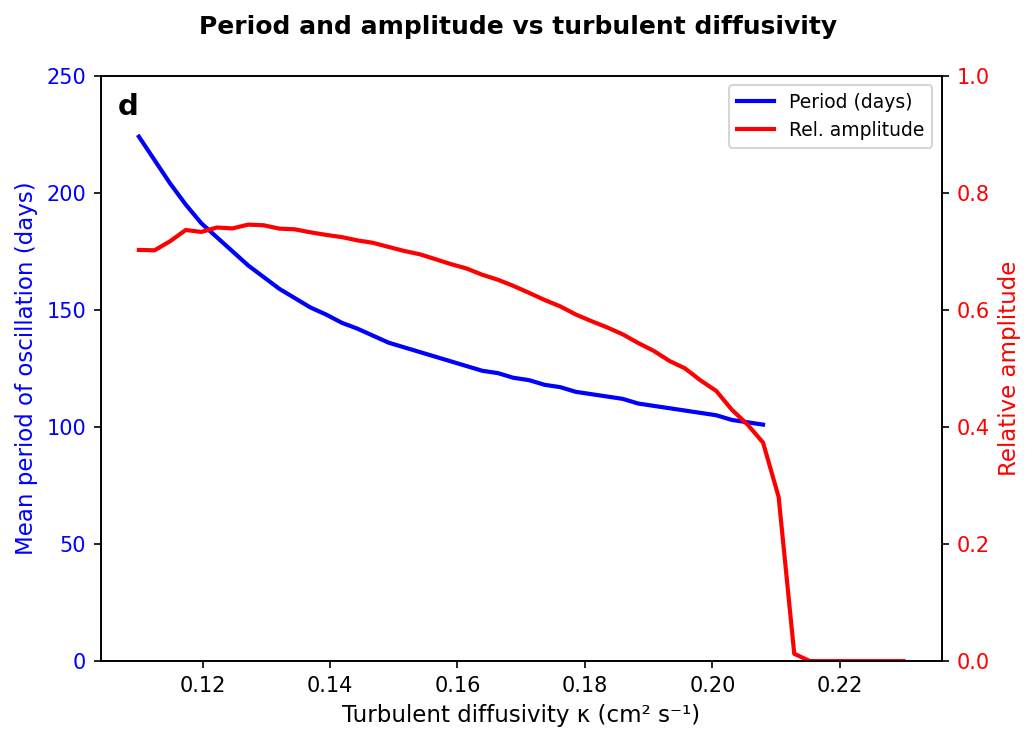
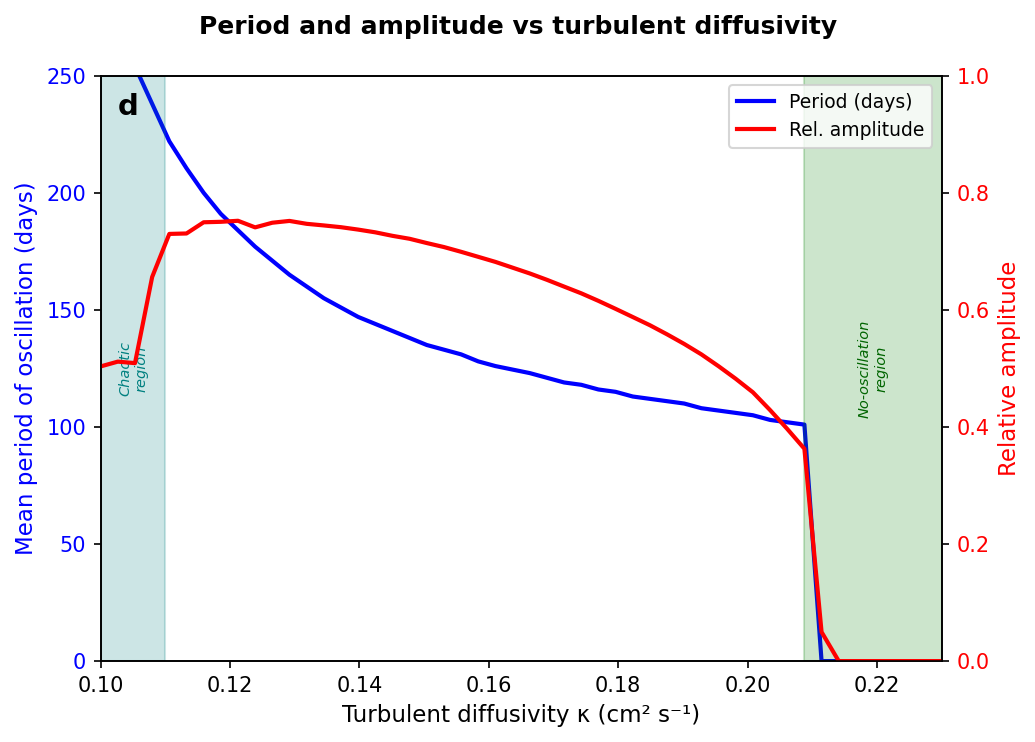
FIxed panels c and d, correct limits

diff --git a/scripts/bifurcation_patterns.py b/scripts/bifurcation_patterns.py
@@ -9,9 +9,9 @@ Speed strategy (two phased integration per parameter value):
 import sys, os, traceback, time, warnings
 
 # Prevent BLAS/LAPACK from spawning threads
-os.environ.setdefault('OMP_NUM_THREADS',      '1')
+os.environ.setdefault('OMP_NUM_THREADS', '1')
 os.environ.setdefault('OPENBLAS_NUM_THREADS', '1')
-os.environ.setdefault('MKL_NUM_THREADS',      '1')
+os.environ.setdefault('MKL_NUM_THREADS', '1')
 
 sys.path.insert(0, os.path.dirname(__file__))
 
@@ -174,24 +174,24 @@ def _continuation_sweep_both_directions(param_name, param_values, extra_params, 
 def _local_extrema(signal):
     order = 100
     idx_max = argrelextrema(signal, np.greater, order=order)[0]
-    idx_min = argrelextrema(signal, np.less,    order=order)[0]
+    idx_min = argrelextrema(signal, np.less, order=order)[0]
     return signal[idx_max], signal[idx_min]
-
-def _mean_period(signal, t):
-    order = 100
-    idx = argrelextrema(signal, np.greater, order=order)[0]
-    if len(idx) < 2:
-        return np.nan
-    amp = _rel_amplitude(signal)
-    if amp < 0.05:   # stable regime
-        return np.nan
-    return np.median(np.diff(t[idx]))
 
 def _rel_amplitude(signal):
     maxs, mins = _local_extrema(signal)
     if len(maxs) == 0 or len(mins) == 0:
         return 0.0
-    return (np.mean(maxs) - np.mean(mins)) / np.mean(maxs)
+    return (np.median(maxs) - np.median(mins)) / np.median(maxs)
+
+def _mean_period(signal, t):
+    order = 100
+    idx = argrelextrema(signal, np.greater, order=order)[0]
+    if len(idx) < 2:
+        return 0.0
+    amp = _rel_amplitude(signal)
+    if amp < 0.05:
+        return 0.0
+    return np.median(np.diff(t[idx]))
 
 def _extrema_from_sweep(raw):
     bif = []
@@ -208,7 +208,6 @@ def _period_amp_from_sweep(raw):
         periods.append(_mean_period(Pint, t))
         amps.append(_rel_amplitude(Pint))
     return np.array(periods), np.array(amps)
-
 
 # Panel savers
 def save_panel_a(bif_data, kappas, out_path):
@@ -246,8 +245,8 @@ def save_panel_c(v_values, periods, amplitudes, out_path):
     fig.suptitle('Period and amplitude vs sinking velocity', fontsize=12, fontweight='bold')
     ax2 = ax.twinx()
     valid = ~np.isnan(periods)
-    ax.plot(v_values[valid], periods[valid], 'b-', lw=2, label='Period (days)')
-    ax2.plot(v_values, amplitudes, 'r-', lw=2, label='Rel. amplitude')
+    ax.plot(v_values[valid], periods[valid], 'b-', lw=2, zorder=0, label='Period (days)')
+    ax2.plot(v_values, amplitudes, 'r-', lw=2, zorder=0, label='Rel. amplitude')
     ax.set_xlabel('Sinking velocity v (m h⁻¹)', fontsize=11)
     ax.set_ylabel('Mean period of oscillation (days)', color='b', fontsize=11)
     ax2.set_ylabel('Relative amplitude', color='r', fontsize=11)
@@ -256,8 +255,16 @@ def save_panel_c(v_values, periods, amplitudes, out_path):
     ax.tick_params(axis='y', labelcolor='b')
     ax2.tick_params(axis='y', labelcolor='r')
     ax.text(0.02, 0.97, 'c', transform=ax.transAxes, fontsize=14, fontweight='bold', va='top')
+    ax.set_xlim(v_values[0], v_values[-1])
+    _osc = np.array(amplitudes) > 0.05
+    _v0  = v_values[np.where(_osc)[0][0]]   # oscillation starts
+    _v1  = 0.043  # oscillation ends
+    ax.axvspan(v_values[0], _v0, alpha=0.2, color='green', zorder=0, label='No-oscillation')
+    ax.axvspan(_v1, v_values[-1], alpha=0.2, color='teal',  zorder=0, label='Chaotic region')
+    ax.text((v_values[0]+_v0)/2, 125, 'No-oscillation\nregion', fontsize=7, ha='center', va='center', color='darkgreen', rotation=90, style='italic')
+    ax.text((_v1+v_values[-1])/2, 125, 'Chaotic\nregion',       fontsize=7, ha='center', va='center', color='teal',      rotation=90, style='italic')
     lines = ax.get_lines() + ax2.get_lines()
-    ax.legend(lines, [l.get_label() for l in lines], fontsize=9, loc='upper left')
+    ax.legend(lines, [l.get_label() for l in lines], fontsize=9, loc='lower center')
     plt.tight_layout()
     plt.savefig(out_path, dpi=150, bbox_inches='tight')
     plt.close()
@@ -267,8 +274,8 @@ def save_panel_d(kappas, periods, amplitudes, out_path):
     fig.suptitle('Period and amplitude vs turbulent diffusivity', fontsize=12, fontweight='bold')
     ax2 = ax.twinx()
     valid = ~np.isnan(periods)
-    ax.plot(kappas[valid], periods[valid], 'b-', lw=2, label='Period (days)')
-    ax2.plot(kappas, amplitudes, 'r-', lw=2, label='Rel. amplitude')
+    ax.plot(kappas[valid], periods[valid], 'b-', lw=2, zorder=0,label='Period (days)')
+    ax2.plot(kappas, amplitudes, 'r-', lw=2, zorder=0, label='Rel. amplitude')
     ax.set_xlabel('Turbulent diffusivity κ (cm² s⁻¹)', fontsize=11)
     ax.set_ylabel('Mean period of oscillation (days)', color='b', fontsize=11)
     ax2.set_ylabel('Relative amplitude', color='r', fontsize=11)
@@ -277,6 +284,14 @@ def save_panel_d(kappas, periods, amplitudes, out_path):
     ax.tick_params(axis='y', labelcolor='b')
     ax2.tick_params(axis='y', labelcolor='r')
     ax.text(0.02, 0.97, 'd', transform=ax.transAxes, fontsize=14, fontweight='bold', va='top')
+    ax.set_xlim(kappas[0], kappas[-1])
+    _osc = np.array(amplitudes) > 0.05
+    _k0  = 0.11   # oscillation starts
+    _k1  = kappas[np.where(_osc)[0][-1]]  # oscillation ends
+    ax.axvspan(kappas[0], _k0, alpha=0.2, color='teal',  zorder=0, label='Chaotic region')
+    ax.axvspan(_k1, kappas[-1],  alpha=0.2, color='green', zorder=0, label='No-oscillation')
+    ax.text((kappas[0]+_k0)/2, 125, 'Chaotic\nregion',        fontsize=7, ha='center', va='center', color='teal',      rotation=90, style='italic')
+    ax.text((_k1+kappas[-1])/2, 125, 'No-oscillation\nregion', fontsize=7, ha='center', va='center', color='darkgreen', rotation=90, style='italic')
     lines = ax.get_lines() + ax2.get_lines()
     ax.legend(lines, [l.get_label() for l in lines], fontsize=9, loc='upper right')
     plt.tight_layout()
@@ -288,28 +303,28 @@ def main():
     n_workers = max(1, cpu_count())
     
     # Panel a: full κ bifurcation diagram
-    t0 = time.time()
-    kappas_a = np.linspace(0.04, 0.24, 300)
-    try:
-        raw_a = _continuation_sweep_both_directions('kappa', kappas_a, {}, 'a')
-        bif_a = _extrema_from_sweep(raw_a)
-        save_panel_a(bif_a, kappas_a, os.path.join(PANELS_DIR, 'fig3_panel_a.png'))
-    except Exception:
-        print('Panel a FAILED:'); traceback.print_exc()
+    #t0 = time.time()
+    #kappas_a = np.linspace(0.04, 0.24, 300)
+    #try:
+    #    raw_a = _continuation_sweep_both_directions('kappa', kappas_a, {}, 'a')
+    #    bif_a = _extrema_from_sweep(raw_a)
+    #    save_panel_a(bif_a, kappas_a, os.path.join(PANELS_DIR, 'fig3_panel_a.png'))
+    #except Exception:
+    #    print('Panel a FAILED:'); traceback.print_exc()
 
     # Panel b: period-doubling / chaotic window detail
-    t0 = time.time()
-    kappas_b = np.linspace(0.105, 0.130, 300)
-    try:
-        raw_b = _continuation_sweep('kappa', kappas_b, {}, 'b')
-        bif_b = _extrema_from_sweep(raw_b)
-        save_panel_b(bif_b, kappas_b, os.path.join(PANELS_DIR, 'fig3_panel_b.png'))
-    except Exception:
-        print('Panel b FAILED:'); traceback.print_exc()
+    #t0 = time.time()
+    #kappas_b = np.linspace(0.105, 0.130, 300)
+    #try:
+    #    raw_b = _continuation_sweep('kappa', kappas_b, {}, 'b')
+    #    bif_b = _extrema_from_sweep(raw_b)
+    #    save_panel_b(bif_b, kappas_b, os.path.join(PANELS_DIR, 'fig3_panel_b.png'))
+    #except Exception:
+    #    print('Panel b FAILED:'); traceback.print_exc()
 
     # Panel c: period and amplitude vs sinking velocity
     t0 = time.time()
-    v_values = np.linspace(0.025, 0.045, 50)
+    v_values = np.linspace(0.025, 0.046, 50)
     try:
         raw_c = _parallel_sweep('v', v_values, {'kappa': 0.12}, 'c', n_workers)
         per_v, amp_v = _period_amp_from_sweep(raw_c)
@@ -320,7 +335,7 @@ def main():
 
     # Panel d: period and amplitude vs turbulent diffusivity
     t0 = time.time()
-    kappas_d = np.linspace(0.11, 0.23, 50)
+    kappas_d = np.linspace(0.10, 0.23, 50)
     try:
         raw_d = _parallel_sweep('kappa', kappas_d, {}, 'd', n_workers)
         per_k, amp_k = _period_amp_from_sweep(raw_d)